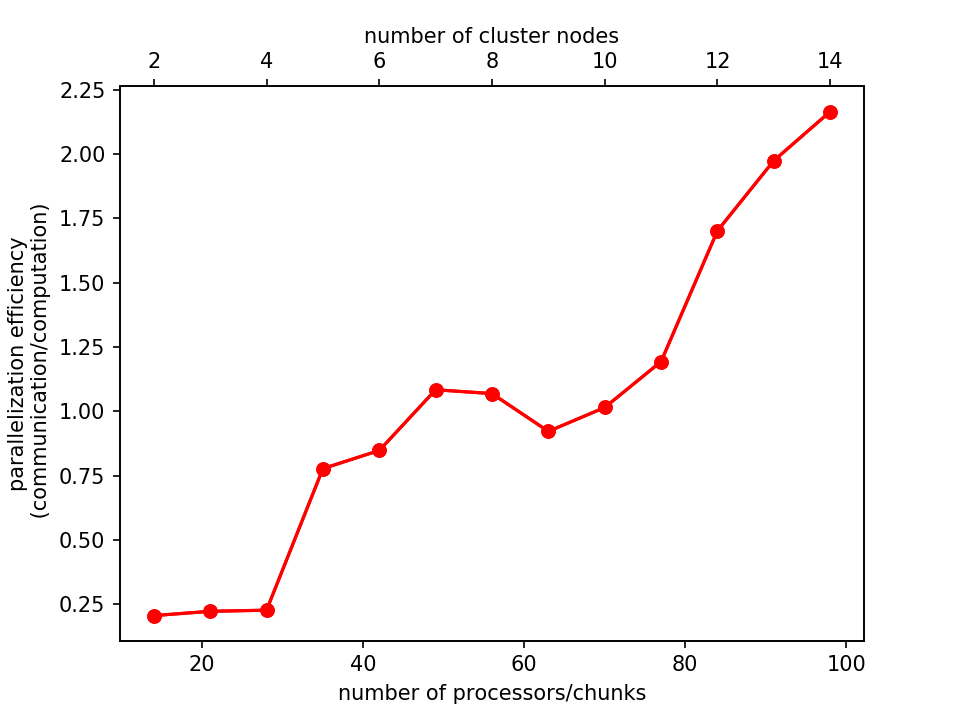
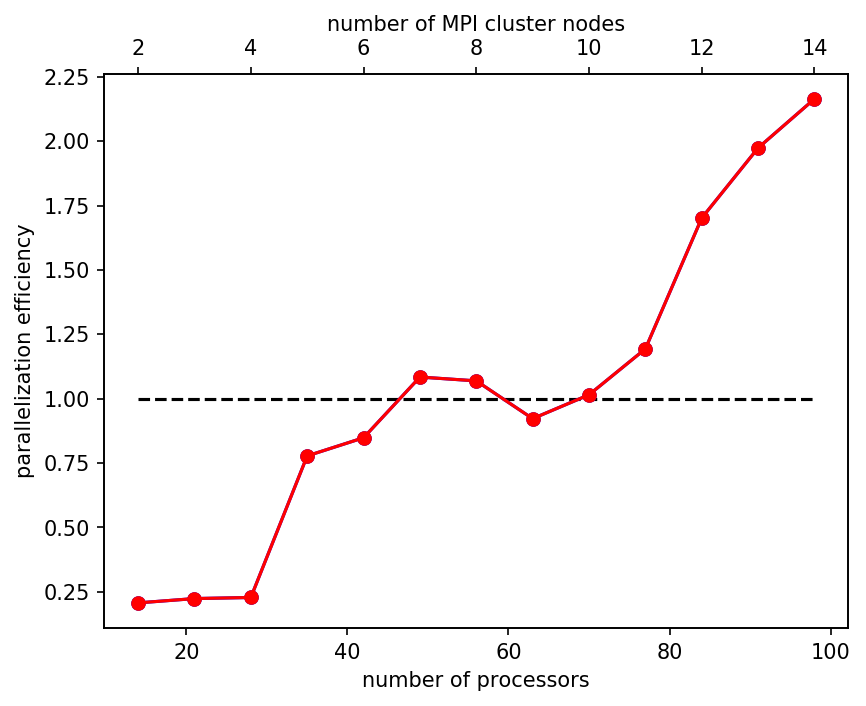
additional benchmarking results for runtime scaling on MPI clusters (#1272)
* additional benchmarking results for runtime scaling on MPI clusters

* plot 1/time vs P and expand discussion of linear scaling

diff --git a/doc/docs/FAQ.md b/doc/docs/FAQ.md
@@ -318,8 +318,7 @@ Only the [harmonic mean](https://en.wikipedia.org/wiki/Harmonic_mean) of eigenva
 
 ### How do I model graphene or other 2d materials with single-atom thickness?
 
-Typically, graphene and similar "2d" materials are mathematically represented as a [delta function](https://en.wikipedia.org/wiki/Dirac_delta_function) conductivity in Maxwell's equations because their thickness is negligible compared to the wavelength. In
-a discretized computer model like Meep, this is approximated by a volume conductivity that is one pixel (`1/resolution`) thick *and* has an amplitude scaled by `resolution`. Such a one-pixel-thick [conductor](Materials.md#conductivity-and-complex) can be represented by e.g. a [`Block`](Python_User_Interface.md#block) with `size=meep.Vector3(x,y,1/resolution)` in a 3d cell, with the value of the conductivity explicitly multiplied by `resolution`.
+Typically, graphene and similar "2d" materials are mathematically represented as a [delta function](https://en.wikipedia.org/wiki/Dirac_delta_function) conductivity in Maxwell's equations because their thickness is negligible compared to the wavelength. In a discretized computer model like Meep, this is approximated by a volume conductivity that is one pixel (`1/resolution`) thick *and* has an amplitude scaled by `resolution`. Such a one-pixel-thick [conductor](Materials.md#conductivity-and-complex) can be represented by e.g. a [`Block`](Python_User_Interface.md#block) with `size=meep.Vector3(x,y,1/resolution)` in a 3d cell, with the value of the conductivity explicitly multiplied by `resolution`. For accurate results, the Yee grid resolution should be comparable to a singe-atom thickness. Unfortunately, this means that the memory requirements of even a 2d simulation will be quite large. Finite-element methods which are based on variable grid resolution may be more suitable for these types of problems.
 
 ### How do I model a continuously varying permittivity?
 
@@ -357,7 +356,7 @@ Even if you disable the subpixel averaging, however, when you output the dielect
 
 ### Why does subpixel averaging take so long?
 
-There are at least two possible reasons due to using: (1) a [material function](Python_User_Interface.md#material-function) to define a [`Medium`](Python_User_Interface.md#medium) object or (2) the [C++](C++_Tutorial) interface. Unlike either the [Python](Python_User_Interface/) or [Scheme](Scheme_User_Interface/) interfaces which are based on analytically computing the averaged permittivity for boundary voxels involving at most one [`GeometricObject`](Python_User_Interface.md#geometricobject) (e.g., `Sphere`, `Prism`, `Block`, etc.), the C++ interface computes these averages from the material_function using [numerical quadrature](https://en.wikipedia.org/wiki/Numerical_integration) if the parameter `use_anisotropic_averaging=true` is passed to the constructor of `set_materials`. This procedure involves calling the material_function many times for every voxel in the [structure object](C++_Developer_Information.md#data-structures-and-chunks) which can be slow due to the [SWIG](http://www.swig.org/) callbacks, particularly because the voxel density is repeatedly doubled until a given threshold tolerance (`subpixel_tol`) or maximum iteration number (`subpixel_maxeval`) is reached. Because of this discrepancy in the subpixel averaging, the results for the C++ and Python/Scheme interfaces may be slightly different at the same resolution. You can potentially speed up subpixel averaging by increasing `subpixel_tol` or decreasing `subpixel_maxeval`. **Note:** the slow callbacks may still be noticeable during the grid initialization *even when subpixel averaging is turned off*. Just remember that if you turn off subpixel averaging, it usually means that you may need to increase the grid resolution to obtain the same accuracy. You will have to determine how much accuracy you want to trade for time. Alternatively, in the C++ interface you can use the [`meepgeom.hpp`](https://github.com/NanoComp/meep/blob/master/src/meepgeom.hpp) routines to define your geometry in terms of blocks, cylinders, etcetera similar to Python and Scheme, with semi-analytical subpixel averaging.
+There are at least two possible reasons due to using: (1) a [material function](Python_User_Interface.md#material-function) to define a [`Medium`](Python_User_Interface.md#medium) object or (2) the [C++](C++_Tutorial) interface. Unlike either the [Python](Python_User_Interface/) or [Scheme](Scheme_User_Interface/) interfaces which are based on analytically computing the averaged permittivity for boundary voxels involving at most one [`GeometricObject`](Python_User_Interface.md#geometricobject) (e.g., `Sphere`, `Prism`, `Block`, etc.), the C++ interface computes these averages from the material function using [numerical quadrature](https://en.wikipedia.org/wiki/Numerical_integration) if the parameter `use_anisotropic_averaging=true` is passed to the constructor of `set_materials`. This procedure involves calling the material function many times for every voxel in the [structure object](C++_Developer_Information.md#data-structures-and-chunks) which can be slow due to the [SWIG](http://www.swig.org/) callbacks, particularly because the voxel density is repeatedly doubled until a given threshold tolerance (`subpixel_tol`) or maximum iteration number (`subpixel_maxeval`) is reached. Because of this discrepancy in the subpixel averaging, the results for the C++ and Python/Scheme interfaces may be slightly different at the same resolution. You can potentially speed up subpixel averaging by increasing `subpixel_tol` or decreasing `subpixel_maxeval`. **Note:** the slow callbacks may still be noticeable during the grid initialization *even when subpixel averaging is turned off*. Just remember that if you turn off subpixel averaging, it usually means that you may need to increase the grid resolution to obtain the same accuracy. You will have to determine how much accuracy you want to trade for time. Alternatively, in the C++ interface you can use the [`meepgeom.hpp`](https://github.com/NanoComp/meep/blob/master/src/meepgeom.hpp) routines to define your geometry in terms of blocks, cylinders, etcetera similar to Python and Scheme, with semi-analytical subpixel averaging.
 
 ### Can subpixel averaging be applied to dispersive materials?
 

diff --git a/doc/docs/Parallel_Meep.md b/doc/docs/Parallel_Meep.md
@@ -97,9 +97,9 @@ For large multicore jobs with I/O, it may be necessary to have `(meep-all-wait)`
 Runtime Scaling on MPI Clusters
 -------------------------------
 
-The following are benchmarking results of the total runtime vs. number of processors/chunks for a 3d [OLED](http://www.simpetus.com/projects.html#meep_oled) simulation involving [Lorentzian susceptibility](Python_User_Interface.md#lorentziansusceptibility), [Absorber](Python_User_Interface.md#absorber), 1d [PML](Python_User_Interface.md#pml), and [DFT flux monitors](Python_User_Interface.md#flux-spectra) for MPI clusters of [n1-standard-16](https://cloud.google.com/compute/docs/machine-types#n1_machine_type) instances on the [Google Cloud Platform](https://cloud.google.com/). Hyperthreading is disabled and one slot on each instance/node is reserved for kernel tasks leaving 7 slots/node. [elasticluster](https://elasticluster.readthedocs.io/en/latest/) is used for the cluster management and [grid engine](https://en.wikipedia.org/wiki/Oracle_Grid_Engine) for the job scheduler. Even chunk splitting is used (`split_chunks_evenly=True`). The size of the clusters ranges from 2 to 14 nodes (14 to 98 processors).
+The following are benchmarking results of the total runtime vs. number of processors for a 3d [OLED](http://www.simpetus.com/projects.html#meep_oled) simulation involving [Lorentzian susceptibility](Python_User_Interface.md#lorentziansusceptibility), [Absorber](Python_User_Interface.md#absorber), 1d [PML](Python_User_Interface.md#pml), and [DFT flux monitors](Python_User_Interface.md#flux-spectra) for [MPICH](https://www.mpich.org/) clusters of [n1-standard-16](https://cloud.google.com/compute/docs/machine-types#n1_machine_type) instances (8 single-threaded cores) on the [Google Cloud Platform](https://cloud.google.com/) (GCP). One slot on each node is reserved for kernel tasks leaving 7 slots per node. The software stack includes Ubuntu 16.04, the Meep [nightly build Conda package](Installation.md#nightly-builds), [elasticluster](https://elasticluster.readthedocs.io/en/latest/) for the cluster management, and [grid engine](https://en.wikipedia.org/wiki/Oracle_Grid_Engine) for the job scheduler. In order to reduce [cache contention](https://en.wikipedia.org/wiki/Resource_contention), process affinity is used via the `mpirun` option `-bind-to core`. Meep's simulation domain is split into equal-sized [chunks](Chunks_and_Symmetry.md#chunks-and-symmetry) (`split_chunks_evenly=True`). The size of the clusters ranges from 2 to 14 nodes (14 to 98 processors).
 
-As shown in the first figure below, the runtime reaches a minimum at 77 processors. The second figure shows the scaling of the ratio of the time spent on communication (MPI/synchronization) to the computation (time stepping and DFTs). This ratio is a measure of the parallelization efficiency. The crossover point when the parallelization efficiency becomes larger than one corresponds well to the minimum runtime of the first figure.
+As shown in the first figure below, the runtime reaches a minimum at 77 processors. The second figure shows the scaling of the ratio of the mean time spent on communication (MPI/synchronization) to the computation (time stepping and DFTs). (These timing metrics were obtained using the routine [`Simulation.mean_time_spent_on`](Python_User_Interface.md#simulation-time).) This ratio is a measure of the parallelization efficiency. The crossover point when the parallelization efficiency becomes larger than one — the regime in which the simulation is constrained by the network bandwidth rather than the CPU clock speed — corresponds well to the minimum runtime of the first figure.
 
 <center>
 ![](images/parallel_benchmark_runtime_vs_nprocs.png)
@@ -109,4 +109,22 @@ As shown in the first figure below, the runtime reaches a minimum at 77 processo
 ![](images/parallel_benchmark_commcomp_vs_nprocs.png)
 </center>
 
-The results are not continuous because as the number of processors changes slightly (e.g., from 42 to 49), the chunk divisions can change by a lot (i.e., it can switch from splitting some chunk along the *x* axis to along the *y* axis).
+These results are not continuous because as the number of processors changes slightly (e.g., from 42 to 49), the chunk divisions can change by a lot (i.e., it can switch from splitting some chunk along the *x* axis to along the *y* axis) which significantly affects the runtime performance.
+
+We can also analyze the per-processor times spent on time-stepping, MPI/synchronization, and DFT as shown in the next figure for the case of a cluster with 35 processors (5 nodes). Because the simulation is not properly load balanced due to the equal-sized chunks, there is a large variation in the timings for different processors particularly for the DFT where there are several idle processors (i.e., chunks which do not contain any DFT pixels).
+
+<center>
+![](images/parallel_benchmark_barplot.png)
+</center>
+
+Based on these results, we plot the average of the *inverse* of the timings (proportional to the number of cycles per second; a quantity which can demonstrate linear scaling) for the time-stepping and DFT over the full range of cluster sizes. The time-stepping results demonstrate ~linear scaling although the variation increases with the number of processors mainly as a result of the increasingly pronounced networking effects of the virtual cluster (the N1 instances on GCP do *not* support colocation via a [compact placement policy](https://cloud.google.com/compute/docs/instances/define-instance-placement)). The DFT results seem to be converging to a constant. This is not surprising because for any given number of processors/chunks only a subset actually contain DFT pixels. The processor(s) which takes the longest time to update its DFT pixels therefore sets an upper bound on how fast the DFT calculation for all processors can proceed. It is this upper bound which is revealed by the scaling plot.
+
+See also [FAQ/Should I expect linear speedup from the parlalel Meep](FAQ.md#should-i-expect-linear-speedup-from-the-parallel-meep)?
+
+<center>
+![](images/parallel_benchmark_timestep.png)
+</center>
+
+<center>
+![](images/parallel_benchmark_DFT.png)
+</center>

diff --git a/doc/docs/Field_Functions.md b/doc/docs/Field_Functions.md
@@ -139,6 +139,8 @@ meep.Simulation.run(meep.synchronized_magnetic(meep.at_every(1,my_weird_output))
 (run-until 200 (synchronized-magnetic (at-every 1 my-weird-output)))
 ```
 
+For more information, see [Python User Interface/Writing Your Own Step Functions](Python_User_Interface.md#writing-your-own-step-functions) or [Scheme User Interface/Writing Your Own Step Functions](Scheme_User_Interface.md#writing-your-own-step-functions).
+
 Coordinates of the Yee Grid
 ---------------------------
 
@@ -163,5 +165,3 @@ meep.Simulation.integrate_field_function([mp.Ex],f)
 ```
 
 This function prints the $(x,y,z)$ Yee grid coordinates of all $E_x$ fields and returns a value of 0 which is never used. In contrast, the output functions `output_field_function` (Python) or `output-field-function` (Scheme) (as well as `output-real-field-function`) interpolate *all* fields onto the center of each grid point.
-
-For more information, see [Python User Interface/Writing Your Own Step Functions](Python_User_Interface.md#writing-your-own-step-functions) or [Scheme User Interface/Writing Your Own Step Functions](Scheme_User_Interface.md#writing-your-own-step-functions).

diff --git a/doc/docs/Scheme_User_Interface.md b/doc/docs/Scheme_User_Interface.md
@@ -874,7 +874,7 @@ Given a list of field components `cs`, compute the Fourier transform of these fi
 
 **`(flux-in-box dir box)`**
 —
-Given a `direction` constant, and a `meep::volume*`, returns the flux (the integral of $\Re [\mathbf{E}^* \times \mathbf{H}]$) in that volume. Most commonly, you specify a volume that is a plane or a line, and a direction perpendicular to it, e.g. `(flux-in-box `X (volume (center 0) (size 0 1 1)))`.
+Given a `direction` constant, and a `meep::volume*`, returns the flux (the integral of $\Re [\mathbf{E}^* \times \mathbf{H}]$) in that volume. Most commonly, you specify a volume that is a plane or a line, and a direction perpendicular to it, e.g. `(flux-in-box X (volume (center 0) (size 0 1 1)))`.
 
 **`(electric-energy-in-box box)`**
 —
